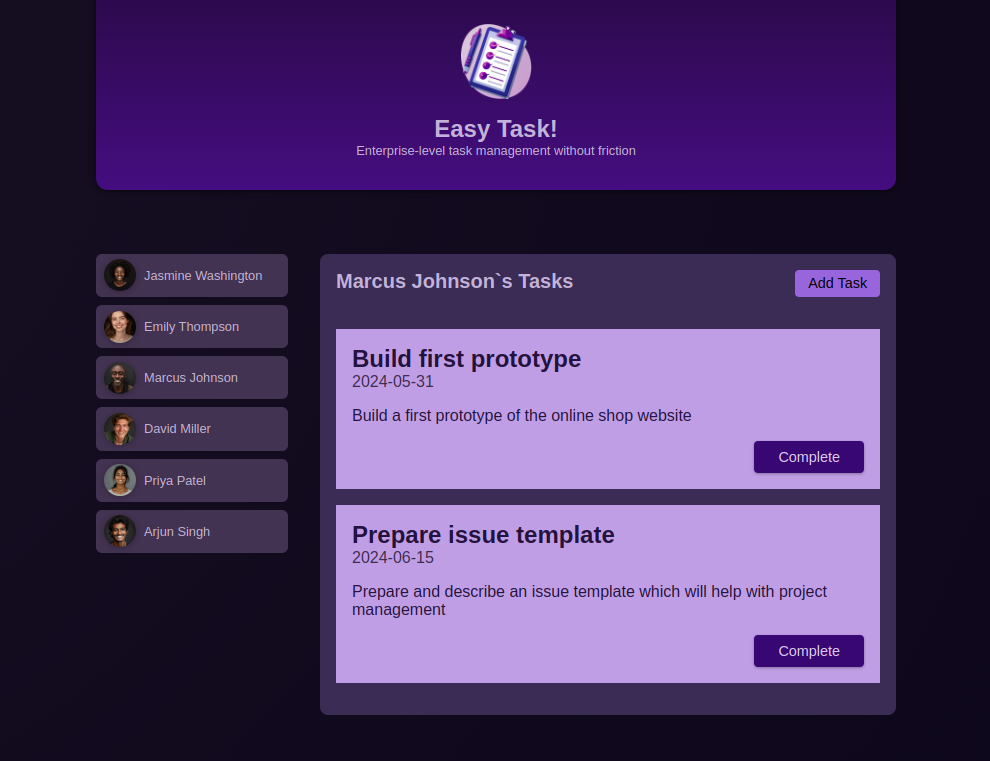
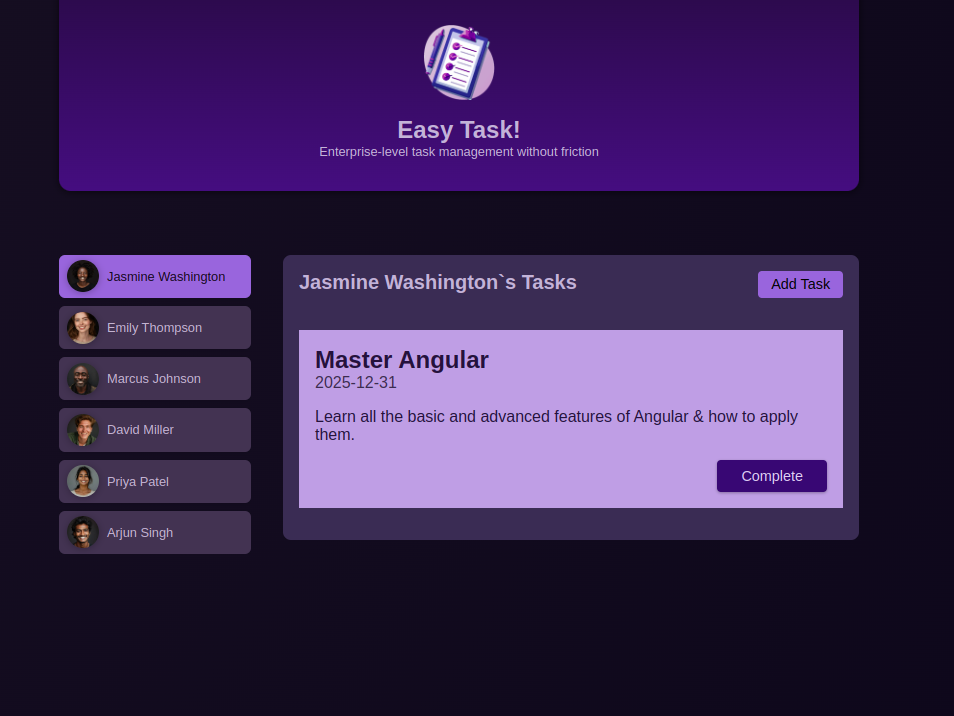
Modelos y Css binding

diff --git a/src/app/user/user.component.ts b/src/app/user/user.component.ts
@@ -1,16 +1,6 @@
 import { Component, EventEmitter, Input, Output } from '@angular/core';
+import { type User } from './user.model';
 
-// type User = {
-//   id: string;
-//   name: string;
-//   avatar: string;
-// };
-
-interface User {
-  id: string;
-  name: string;
-  avatar: string;
-}
 @Component({
   selector: 'app-user',
   standalone: true,
@@ -20,6 +10,7 @@ interface User {
 })
 export class UserComponent {
   @Input({ required: true }) user!: User;
+  @Input({ required: true }) selected!: boolean;
   @Output() select = new EventEmitter<string>();
 
   get imagePath() {

diff --git a/src/app/app.component.html b/src/app/app.component.html
@@ -3,7 +3,11 @@
   <ul id="users">
     @for (user of users; track user.id) {
       <li>
-        <app-user [user]="user" (select)="onSelectUser($event)" />
+        <app-user
+          [user]="user"
+          [selected]="user.id == selectedUserId"
+          (select)="onSelectUser($event)"
+        />
       </li>
     }
   </ul>

diff --git a/src/app/app.component.ts b/src/app/app.component.ts
@@ -16,7 +16,7 @@ export class AppComponent {
   selectedUserId?: string;
 
   get selectedUser() {
-    return this.users.find((user) => this.selectedUserId === user.id);
+    return this.users.find((user) => user.id === this.selectedUserId);
   }
   onSelectUser(id: string) {
     this.selectedUserId = id;

diff --git a/src/app/tasks/task/task.component.ts b/src/app/tasks/task/task.component.ts
@@ -1,12 +1,6 @@
 import { Component, Input } from '@angular/core';
+import { type Task } from './task.model';
 
-interface Task {
-  id: string;
-  userId: string;
-  title: string;
-  summary: string;
-  dueDate: string;
-}
 @Component({
   selector: 'app-task',
   standalone: true,

diff --git a/src/app/user/user.component.html b/src/app/user/user.component.html
@@ -1,5 +1,5 @@
 <div>
-  <button (click)="onSelectUser()">
+  <button [class.active]="selected" (click)="onSelectUser()">
     <img [src]="imagePath" [alt]="user.name" />
     <span>{{ user.name }}</span>
   </button>

diff --git a/src/app/tasks/task/task.model.ts b/src/app/tasks/task/task.model.ts
@@ -1,0 +1,7 @@
+export interface Task {
+  id: string;
+  userId: string;
+  title: string;
+  summary: string;
+  dueDate: string;
+}

diff --git a/src/app/user/user.model.ts b/src/app/user/user.model.ts
@@ -1,0 +1,5 @@
+export interface User {
+  id: string;
+  name: string;
+  avatar: string;
+}

diff --git a/README.md b/README.md
@@ -1,23 +1,23 @@
-# **Commit: Task III: Mostrar data**
+# **Commit: Modelos y Css binding**
 
-## Objetivo: Conectar los datos del array task con el componente task
+## Objetivo: migrar interfazces a model, y css binding
 
-en task.component.ts
+- corta la interfaz user, y pegala een un nuevo archivo llamado,
+  user.model.ts recuerda poner export a la interfaz, importala en user.component.ts
+- haz lo mismo con la interfaz Task
+  pista: puedes añadir "type" al import
 
-- define una interfaz Task.
-  interface Task {
-  id: string;
-  userId: string;
-  title: string;
-  summary: string;
-  dueDate: string;
-  }
-- recibe task: Task con @Input() y bindealo en el html de tasks, {required: true}
-- haz string interpolation en el template html de task para enseñar:
-  task.title, task.summary, task.dueDate
+- añade un propiedad Input en user.component.ts, de tipo booleano llamado "selected"
+- bindeala en app.component.html [selected]="user.id == selectedUserId"
+
+- añade este atributo al boton de user.component.html
+  [class.active]="selected"
+
+- añade a <app-user/> el binding de selected app.component.html
+  [selected]="user.id == selectedUserId"
 
 ### VISUALIZACION
 
 - Abre localhost:4200 en el navegador deberias ver:
-  ![Tareas por usuario](./htmlOutput.png)
-  Deberias ver que los usuarios tienen sus tareas personalizadas asociadas
+  ![hover activo](./htmlOutput.png)
+  deberias ver como se queda seleccionado un usuario al pinchar
